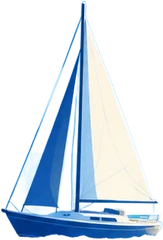
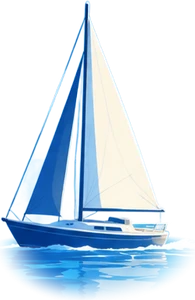
Home v3: boat farther out, keeps its waterline wake and reflection
Claude-Session: https://claude.ai/code/session_014rLwoYYNFr5gTR3irusd6w

diff --git a/src/components/home-v3/HomeV3.module.css b/src/components/home-v3/HomeV3.module.css
@@ -443,10 +443,10 @@
 @media (prefers-reduced-motion: reduce) { .letter, .introTagline, .introToday, .introCta { animation: none; } }
 
 /* Boat from Jose's image, small on the open water, bobbing like the live site's. */
-.boat { position: absolute; z-index: 1; left: 50%; top: 45%; height: clamp(46px, 5.4vw, 92px); width: auto; opacity: 1; pointer-events: none; animation: boatBob 5.5s ease-in-out infinite, boatSail 60s ease-in-out infinite alternate; filter: drop-shadow(0 4px 6px rgba(10, 50, 110, 0.18)); }
-@keyframes boatBob { 0%, 100% { transform: translateY(0) rotate(-1.5deg); } 50% { transform: translateY(-3px) rotate(1.5deg); } }
+.boat { position: absolute; z-index: 1; left: 57%; top: 40.5%; height: clamp(34px, 3.8vw, 68px); width: auto; opacity: 1; pointer-events: none; animation: boatBob 5.5s ease-in-out infinite, boatSail 70s ease-in-out infinite alternate; }
+@keyframes boatBob { 0%, 100% { transform: translateY(0); } 50% { transform: translateY(-1.5px); } }
 @keyframes boatSail { from { translate: 0 0; } to { translate: 4vw 0; } }
-@media (max-width: 760px) { .boat { left: 62%; top: 52%; height: 44px; } }
+@media (max-width: 760px) { .boat { left: 64%; top: 44%; height: 34px; } }
 @media (prefers-reduced-motion: reduce) { .boat { animation: none; } }
 
 /* Join the Conversation: show each post at its real height, nothing cropped. */
